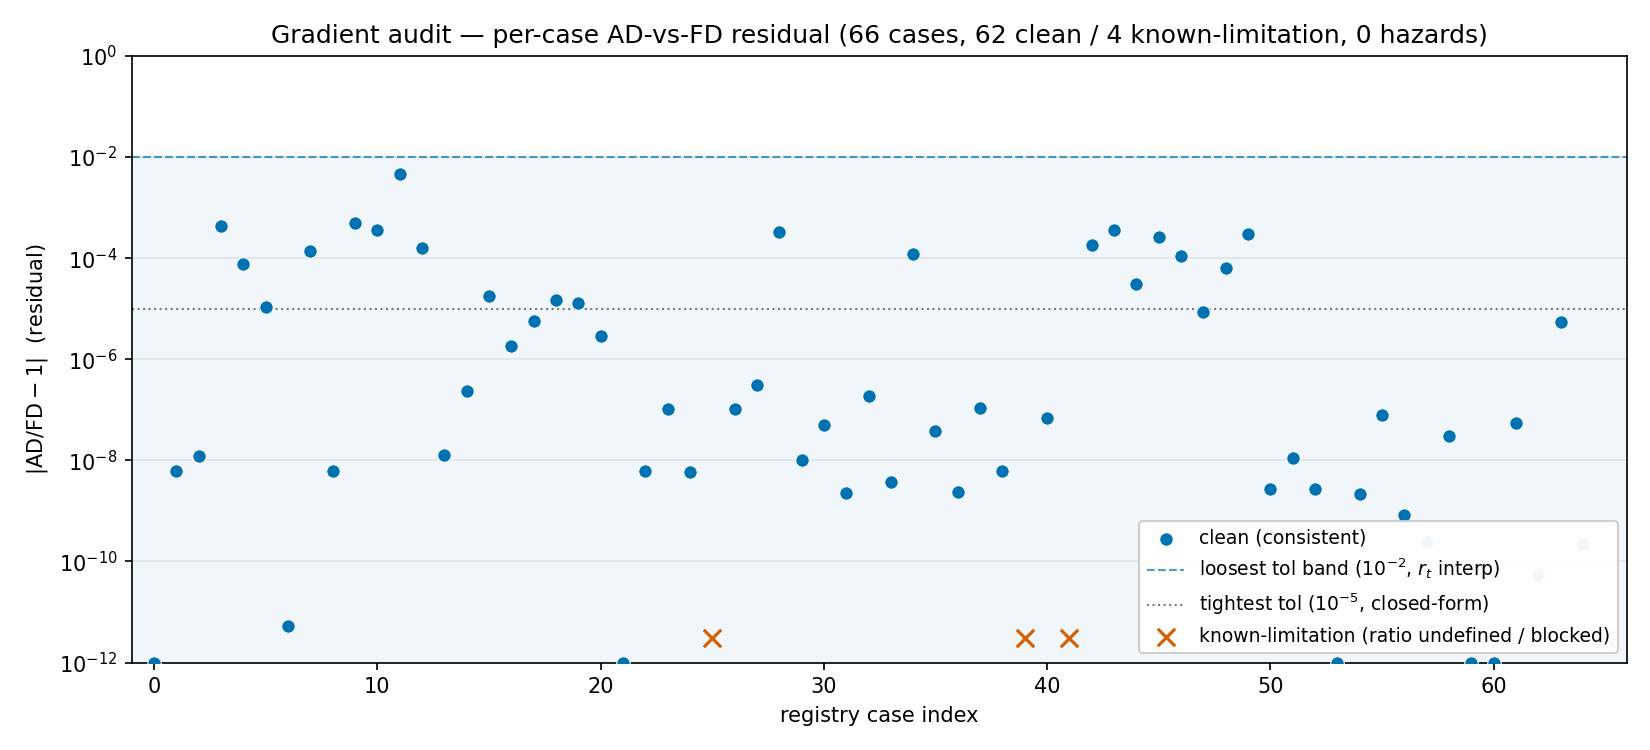
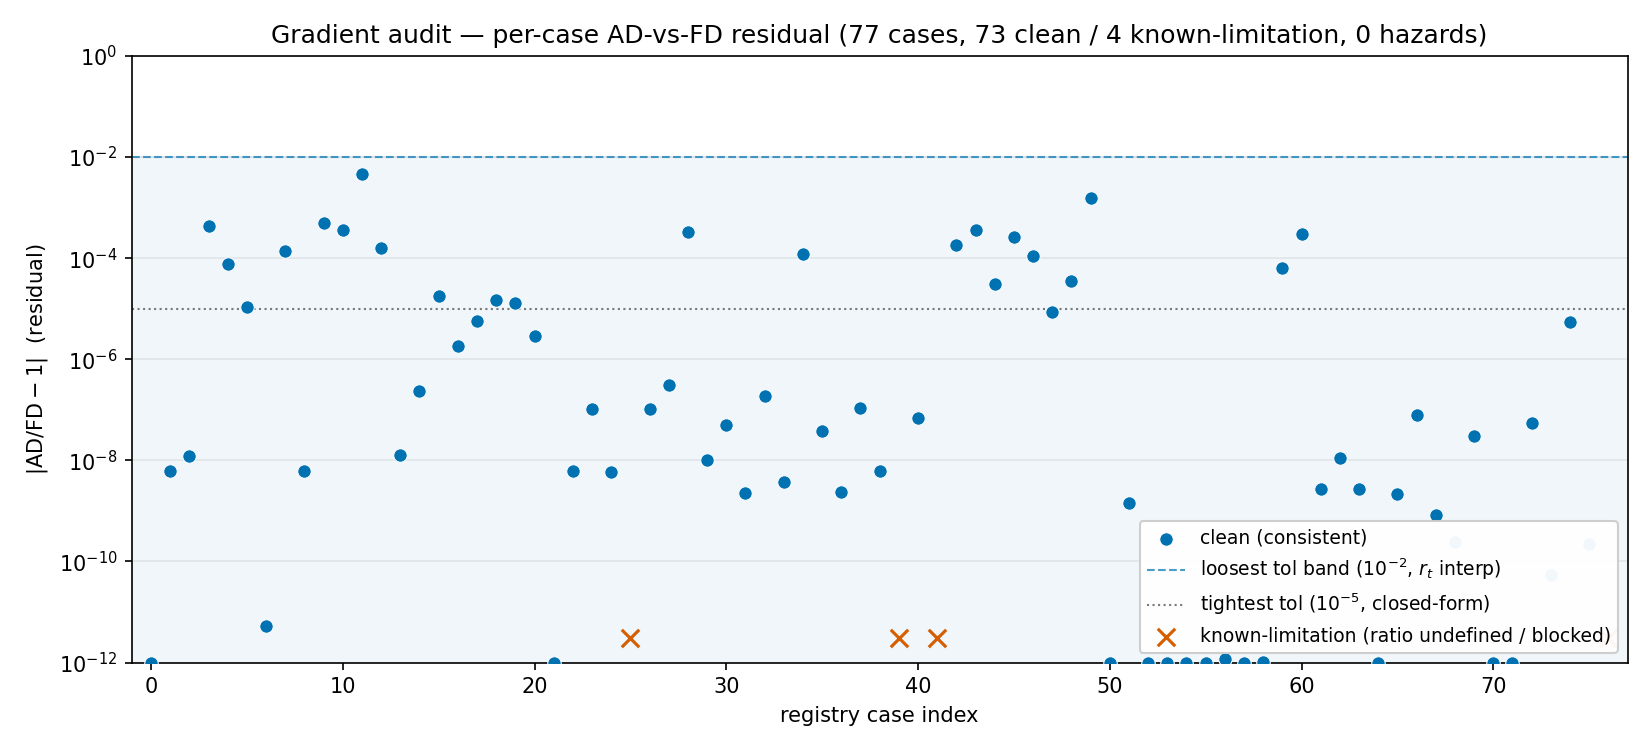
docs(grad-gate): regenerate 77-case audit figures + STATUS (Phase C)
scripts/audit_gradients.py --plots regenerated the per-case residual + summary
figures from the committed 77-row JSON (66->77; JSON itself unchanged since B6,
confirming registry<->JSON sync). STATUS next:/blocker:/due: updated for the
lock-in arc (CI minutes exhausted -> local enforcement, close out by local merge).

diff --git a/STATUS.md b/STATUS.md
@@ -1,6 +1,8 @@
 # progenax — status
 
-next: **Differentiability gradient-audit arc COMPLETE (Tiers 0–4, 2026-06-13, branch `feat/differentiability-audit`).** The grad-audit registry is now the **release gradient-gate**: `tests/validation/grad_audit/registry.py` → **66 Cases** (62 clean, 4 pinned known-limitations, **0 unresolved hazards**), asserted by `tests/validation/test_grad_audit.py` (**67 passed** = 66 + a stop_gradient mutation/teeth test) and regenerated into the single-source `validation/data/grad_audit_results.json` by `scripts/audit_gradients.py` (exit 0). Premise: gradient integrity = Fisher integrity — a silently zeroed/NaN gradient corrupts a Fisher matrix with no error raised. **Two real silent hazards found + fixed** (both gradient-only, forward bit-identical, Anna-ratified): King tidal radius `r_t` silent-zero across King/Michie/LIMEPY/multicomponent via unclamped-ψ (`9d3365a`); segregation surrogate `stop_gradient` ~27% bias at β=0.1 (`6fa665c`). **Tier 4 (Task 4.1–4.3)** turned the registry into the release gate: inventoried every released-core gradient assertion, **migrated ~24 duplicate AD-vs-FD checks** in (scattered tests now carry registry-pointer comments), **deleted ~15 finite-only `isfinite(grad)` smoke tests** (audit finding T6 — a silent-zero passes them), **added 9 new Cases** (King/EFF DF scale params, `PowerLawIMF.ppf(m_min)`, the 3 Kepler `to_state`/`from_state` Jacobian columns, the Michie density observable; 57→66) and **fixed the H6 boundary probe** (folded edge → real u=1e-12 standalone Case). The interlock surfaced 2 real gaps (Michie density-W0, EFF positions-a) → added as Cases. **Task 4.3 final artifacts (this session):** `--plots` flag on `scripts/audit_gradients.py` renders `validation/plots/grad_audit_{ratio,summary}.png` (+ committed website copies under `docs/website/50-validation/figures/`) straight from the JSON; website doc `50-validation/differentiability-audit.md` reconciled to 66 cases with a new Tier-4 section + both embedded figures + changelog (**myst build 161 pages, 0 warnings**); completion doc `.claude-work/TASK_differentiability-audit_COMPLETE.md`; inventory `.claude-work/grad-test-inventory.md` (CHECKPOINT 4a ratified). `enclosed_mass_fraction` (Tier-3 public CDF, model-side N(r) Fisher channel) has 12 unit tests. **MERGED into `main` via PR #8 (merge `2164a7f`, 2026-06-14) — all 9 CI checks green, `feat/differentiability-audit` deleted (local + remote), worktree clean on main. CHECKPOINT 4b closed; the arc is DONE.**
+next: **Gradient-gate LOCK-IN + COMPLETION arc — Phases A+B DONE, Phase C (close-out) in progress (2026-06-13, branch `feat/gradient-gate-lockin` off main).** Turned the differentiability gradient-gate from a one-time audit into a **permanent, self-policing, complete** invariant (design `docs/plans/2026-06-14-gradient-gate-lockin-{charter,design,plan}.md`; six design Qs Anna-ratified). **Phase A (machinery):** new `tests/validation/grad_audit/manifest.py` — three frozen literals: `MUST_AUDIT` (the (id,param) coverage ratchet target), a complete `SYMBOL_CATEGORY` map over all 104 `progenax.__all__` symbols (AUDITED | EXEMPT_*), and `PARAM_ALLOWLIST` (carry-forward known-limitations). THREE enforcement layers, all pytest tests in a dedicated fast `gradient-gate` CI job (wired into the `tests` aggregator): **(1)** the run-gate (`test_grad_audit.py` + `scripts/audit_gradients.py` exit-0), **(2)** a Layer-2 staleness comparator (`test_json_fresh.py` — regenerates the JSON and semantic-diffs vs the committed artifact: exact on discrete/structural fields, rtol on floats for cross-arch; hardened with a non-vacuous floor + isfinite branch + tol-in-discrete), **(3)** a Layer-3 coverage ratchet + `__all__` cross-check (`test_manifest_coverage.py` — a deleted case OR a new/ungated public entry point reds CI). Each layer's teeth demonstrated RED→GREEN. CHECKPOINT A1 (Anna): promoted `LogisticThermalEccentricity` + root-exported the rotation overlays into `__all__`. **Phase B (D4 completion, per-target RED→GREEN, measured ≥3 seeds, never-weaken-tol):** closed ALL deferred Fisher-coverage holes — Engine-A `w_j` (from_components) + `r_a` (from_mass_segregation), `build_binary_cluster` end-to-end (machine-exact, r_h-linear), the 3 period dists (Sana/LogNormal→1/LogUniform→½), the 4 ecc dists (Thermal→⅔/Uniform→½/Moe/LogisticThermal), and `IndependentCompanions.e_max` (through the full assembly). **11 new cases, registry 66→77 rows (73 clean, 4 pinned known-limitations, 0 hazards)**; every case code-reviewed (teeth verified, tols measured-honest). **CI minutes exhausted → verified LOCALLY: full released-core fast gate 1267 passed (399s, exit 0).** **Phase C in progress:** regenerate JSON+plots, website Tier-5 + manifest-coverage section, STATUS/brain, DoD; **NO PR (CI minutes out) — close out by local merge on Anna's go.** See [[gradient-gate-lockin-arc]].
+
+PRIOR next: **Differentiability gradient-audit arc COMPLETE (Tiers 0–4, 2026-06-13, branch `feat/differentiability-audit`).** The grad-audit registry is now the **release gradient-gate**: `tests/validation/grad_audit/registry.py` → **66 Cases** (62 clean, 4 pinned known-limitations, **0 unresolved hazards**), asserted by `tests/validation/test_grad_audit.py` (**67 passed** = 66 + a stop_gradient mutation/teeth test) and regenerated into the single-source `validation/data/grad_audit_results.json` by `scripts/audit_gradients.py` (exit 0). Premise: gradient integrity = Fisher integrity — a silently zeroed/NaN gradient corrupts a Fisher matrix with no error raised. **Two real silent hazards found + fixed** (both gradient-only, forward bit-identical, Anna-ratified): King tidal radius `r_t` silent-zero across King/Michie/LIMEPY/multicomponent via unclamped-ψ (`9d3365a`); segregation surrogate `stop_gradient` ~27% bias at β=0.1 (`6fa665c`). **Tier 4 (Task 4.1–4.3)** turned the registry into the release gate: inventoried every released-core gradient assertion, **migrated ~24 duplicate AD-vs-FD checks** in (scattered tests now carry registry-pointer comments), **deleted ~15 finite-only `isfinite(grad)` smoke tests** (audit finding T6 — a silent-zero passes them), **added 9 new Cases** (King/EFF DF scale params, `PowerLawIMF.ppf(m_min)`, the 3 Kepler `to_state`/`from_state` Jacobian columns, the Michie density observable; 57→66) and **fixed the H6 boundary probe** (folded edge → real u=1e-12 standalone Case). The interlock surfaced 2 real gaps (Michie density-W0, EFF positions-a) → added as Cases. **Task 4.3 final artifacts (this session):** `--plots` flag on `scripts/audit_gradients.py` renders `validation/plots/grad_audit_{ratio,summary}.png` (+ committed website copies under `docs/website/50-validation/figures/`) straight from the JSON; website doc `50-validation/differentiability-audit.md` reconciled to 66 cases with a new Tier-4 section + both embedded figures + changelog (**myst build 161 pages, 0 warnings**); completion doc `.claude-work/TASK_differentiability-audit_COMPLETE.md`; inventory `.claude-work/grad-test-inventory.md` (CHECKPOINT 4a ratified). `enclosed_mass_fraction` (Tier-3 public CDF, model-side N(r) Fisher channel) has 12 unit tests. **MERGED into `main` via PR #8 (merge `2164a7f`, 2026-06-14) — all 9 CI checks green, `feat/differentiability-audit` deleted (local + remote), worktree clean on main. CHECKPOINT 4b closed; the arc is DONE.**
 
 PRIOR next: **Batch C — Science Demos II COMPLETE (2026-06-12, branch `feat/batch-c-demos` off merged main `7d1f402`, 14 commits `8e52936..050dd5e`; plan `~/.claude/plans/twinkling-knitting-quilt.md`, completion `.claude-work/BATCH_C_SCIENCE_DEMOS_COMPLETE.md`).** Six gated CLI demos (all ALL PASS, run-records captured) across the four undemoed threads, paper-seed + methods scope: **B9** binary energy budget (Q_com=0.5000 clean; |E_internal| dwarfs |W_com| 12–1900×; Q_resolved phase-contaminated not "deflated"; EFF-vs-King environment fig, same Moe pop same key → identical E_internal, reservoir 440 vs 298); **B11** King (W₀,r_c) from binned STAR COUNTS alone (6.0→6.028±0.024 / 1.0→0.995±0.010; c(W₀) 1.263 vs Tab.II 1.255; honest ρ(W₀,r_c)=−0.91 count-channel degeneracy) — validates the NEW Poisson number-density harness channel; **B10** differentiable diagnostics (q_approx vs exact Q <0.06 in substructure regime; Λ_approx rank-faithful Spearman 1.00; q_approx AD-vs-FD 4%; Plummer Q>1 excluded honestly); **B5** birth-environment archaeology (α₃ measurable ~40σ at N=1e4, CRLB empirically validated; environment RANK-1 unrecoverable, Fisher eig [−1.8e-12,1.8e-12,1.4e4]); **B4** unresolved-binary mass function — the headline (recover f_b from blend distortion via Tout+1996 ZAMS from fluxax; ignoring Moe P–q coupling biases f_b −3.6σ ~5% low at survey scale; blended median q 0.540 Moe vs 0.479 shuffled); **B6** anisotropy (OM r_a 1.5→1.55±0.035 recovered; OM-fit to a Michie cluster → reduced χ² 5.58 = 12.9× inflation + r_a mis-est 8.9 vs 6.0 — formalism matters). **STRETCH (also done): B7** tidal radius from the count-limited outskirts (r_t 12.0→12.01±0.04, 93% Fisher info from the outer bins, Jacobi → R_gal 2.79±0.01 kpc; r_t made differentiable via cumulative-clip since a hard `where` truncation has ZERO gradient through its boundary); **B8** rotation+projection — ⟨v_los⟩ measures the product ω·sin(i) (1.69±0.03) not ω, the (ω,i) Fisher is rank-1 (cond 2.3e16), introduces a line-of-sight projection helper (realism-axis bridge). All 8 demos' figures VISUALLY INSPECTED (publication-style, physically correct; B5/B6/B7/B8 polish fixes applied). Harness: NEW Poisson number-density trio in `_demo_inference` (binned_number_density / poisson_loglike / poisson_fisher_information, 11 tests, 28/28). Infra: **fluxax wired CI-safely** (private sibling, NOT locked — documented [experimental] note + guarded import + local `uv pip install -e ../fluxax --no-deps`; uv.lock unchanged, `uv lock --check` green); `docs/website/Makefile` (--no-deprecation); latent Batch-B figure-tracking gitignore gap fixed (B1–B3 figures were never committed); peuten YAML + Tout1996 bib. myst **157 pages, 0 warnings**. Released-core gate unaffected (Batch C touched only scripts/+docs/+a pyproject comment; src/ untouched) — FULL gate re-run at close-out. **blocker: AWAITS ANNA — ONE final PR for `feat/batch-c-demos` on your go (per the project workflow). All 8 demos done (6 core + 2 stretch); future = the observational-realism arc (measurement errors/selection/PSF across all demos, B8 introduced the projection bridge). due: Anna's go.**
 
@@ -20,8 +22,8 @@ CAMPAIGN R2/R3 (2026-06-09, pushed): **analytical-test-cases** (9b96bc5): script
 CAMPAIGN R2 EXTENSION (2026-06-08, pushed): 3 more modules to pub standard, each 5 build-verified figures + Measured-column tables. **imf-statistics** (c0b8cfe): scripts/validate_imfs.py rewrite onto _plotstyle — recovered slopes via sample-MLE (Salpeter 2.347±0.004, Kroupa 0.294/1.297/2.301), PDF/CDF coverage+KS, mean_mass() vs 200k log-grid ref (≤1.2e-4) with an adversarial linear-grid failure-mode panel, inference-layer gradient (rel 1e-5); fixed classic.md stale Chabrier params (0.22/0.57 were the *system* IMF → code defaults single-star 0.08/0.69), wrong class name, non-existent API kwargs. **binary-imf** (d43e0c5): scripts/validate_binaries.py — Kepler/orbit oracles (machine-precision), Moe+17 q-dist+KS (mass-dependent twin excess 15.2%→6.3%), HEADLINE regenerated "confidently wrong" via fast differentiable MLE (no MCMC): naive single-star fit 17.8σ-wrong at N=1e5 (α̂=2.21 vs 2.30) while binary-aware recovers 2.298 (0.4σ); bias∝f_b →0 at f_b=0; grad 8e-6; fixed stale binary_aware_validation.py script name. **environment-IMF** (9c358d9, harden-then-validate): NEW tests/validation/test_environment_physics.py (12 tests vs published Marks+2012 Table 1 GC α3 + Table 4 slopes) → released-core 866→878; scripts/validate_environment.py — GC anchors (NGC 7078 most top-heavy 0.844 vs pub 0.76), Fundamental Plane (density beats metallicity 7:1), low-mass slopes exact, HONEST Marks-vs-Jeřábková cross-model (both top-heavy mechanism but ~0.7 zero-point divergence reported not asserted away), grad 9e-8. All myst-build-verified (figs in _build/site/public + page JSON); new 50-validation/environment-imf.md wired into nav+dashboard+audit-report.
 
 CAMPAIGN SUMMARY (2026-06-08): 6 modules at publication standard, each 5 build-verified figures + Measured-column tables: Plummer, King(retrofit), EFF, Michie, rotation/OM-anisotropy, substructure/CW04 Q; diagnostics (Λ_MSR + energy-sorted segregation) already done. Shared scripts/_plotstyle.py; LIMEPY reframed across 13 pages + roadmap (10-theory/spatial-profiles/lowered-model-family.md); validate_profiles.py deleted. Released-core 830→861 (+31 validation tests, all collect clean, build clean). Commits f964ebf, 4db6dbb, ee5f299, fcbfa32, 66cedaf on local main. Findings handled honestly: King W0 differentiable (corrected docs); EFF γ=5≡Plummer exact; Michie β suppressed below Osipkov-Merritt (validated vs DF moment oracle); OM stretch realizes β exactly (the Michie contrast); q_approx kNN-surrogate gradient (median 0.9%, cell-boundary worst-case). **rotation/anisotropy DONE (2026-06-08)**: new tests/validation/test_rotation_anisotropy_physics.py (10 tests, released-core 842→852) + scripts/validate_rotation_anisotropy.py (5 figs) + 50-validation/rotation-om-anisotropy.md. Solid-body v_φ=ΩR slope exact (resid 3e-14), L_z budget exact, differential curve <1e-6; OM anisotropy β(r)=r²/(r²+r_a²) realized EXACTLY for Plummer+EFF (dev 0.024/0.016) via Merritt-1985 direction-stretch — the clean CONTRAST to Michie's suppressed β. Ω/v_peak/r_a all differentiable (3e-9/7e-9/8e-6). **Michie DONE (2026-06-08)**: new tests/validation/test_michie_physics.py (12 tests, released-core 830→842) + scripts/validate_michie.py (5 figs) + 50-validation/michie-anisotropy.md. KEY FINDING: Michie-King β(r) is SUPPRESSED below the pure Osipkov-Merritt ceiling r²/(r²+r_a²) because the lowering term −exp(−J²/2r_a²σ²) breaks the f(Q) form — validated the sampler against the model's OWN DF β (2nd-moment oracle), not OM. γ/W0/r_c/M all differentiable. Per-module: status check → brainstorm plot set (HITL) → build pub figures → embed → BUILD-VERIFY → dashboard. **Plummer + King + EFF (2026-06-08) all done**: dedicated scripts/validate_{plummer,king,eff}.py on shared scripts/_plotstyle.py, each 5 pub figures printing expected-vs-measured; validation tables carry Measured columns; validate_profiles.py deleted (superseded). EFF: fixed false page claims (no γ>3 ValueError, no from_rh r_h-mapping, no KS test, "γ differentiable unlike King's W0" was wrong — both differentiable); γ=5→Plummer exact; γ AD-grad 2e-11. Entry point: docs/plans/2026-06-08-validation-audit-and-methods-figures-spec.md (per-module: brainstorm plot set → build pub-quality figures → embed on 50-validation page → BUILD-VERIFY render → update index dashboard). Done so far: **Plummer (2026-06-08, 5 pub figures)** + **King (32 tests, 5 figs)** + two-component + mass-segregation pages current+figure-bearing+build-verified; Λ_MSR validated; Tier C built. NEW shared scripts/_plotstyle.py (Okabe-Ito + ApJ rcParams); King refactored onto it. Plummer: dedicated scripts/validate_plummer.py (density+CDF, velocity-equilibrium, Beta(3/2,9/2), gradient AD-vs-FD, isotropy), each printing expected-vs-measured; Plummer+King validation tables now carry a Measured column (real regenerated numbers, fixed old overclaims). LIMEPY reframed across 13 pages (cite Gieles2015, own differentiable lowered-model family) + new roadmap 10-theory/spatial-profiles/lowered-model-family.md. EFF figure rewrite in validate_profiles.py still pending the EFF audit (validate_profiles.py is now Plummer-stale — its validate_plummer() superseded by scripts/validate_plummer.py; clean it during EFF).
-blocker: none — PR #8 CI was green (all 9 checks incl. `tests`); the differentiability gradient-audit arc is merged to main.
-due:
+blocker: **AWAITS ANNA — close-out of the gradient-gate lock-in arc.** CI minutes are exhausted, so there is NO final PR: the three CI layers are pytest tests verified locally (full released-core 1267 passed), and the `gradient-gate` CI job is wired/committed for when minutes return. Close out by **local merge of `feat/gradient-gate-lockin` → main on Anna's explicit go** (do NOT push/merge before). Phase C remaining: website Tier-5 + manifest-coverage section (`make build` 0 warnings), then the merge.
+due: Anna's go (local merge).
 
 ## Current focus
 _Seeded 2026-06-07 by the brain STATUS.md convention (`~/brain/work/meta/status-convention.md`). Update in your progenax session; the brain pulls `next:`/`blocker:`/`due:` via `federate.py`._
